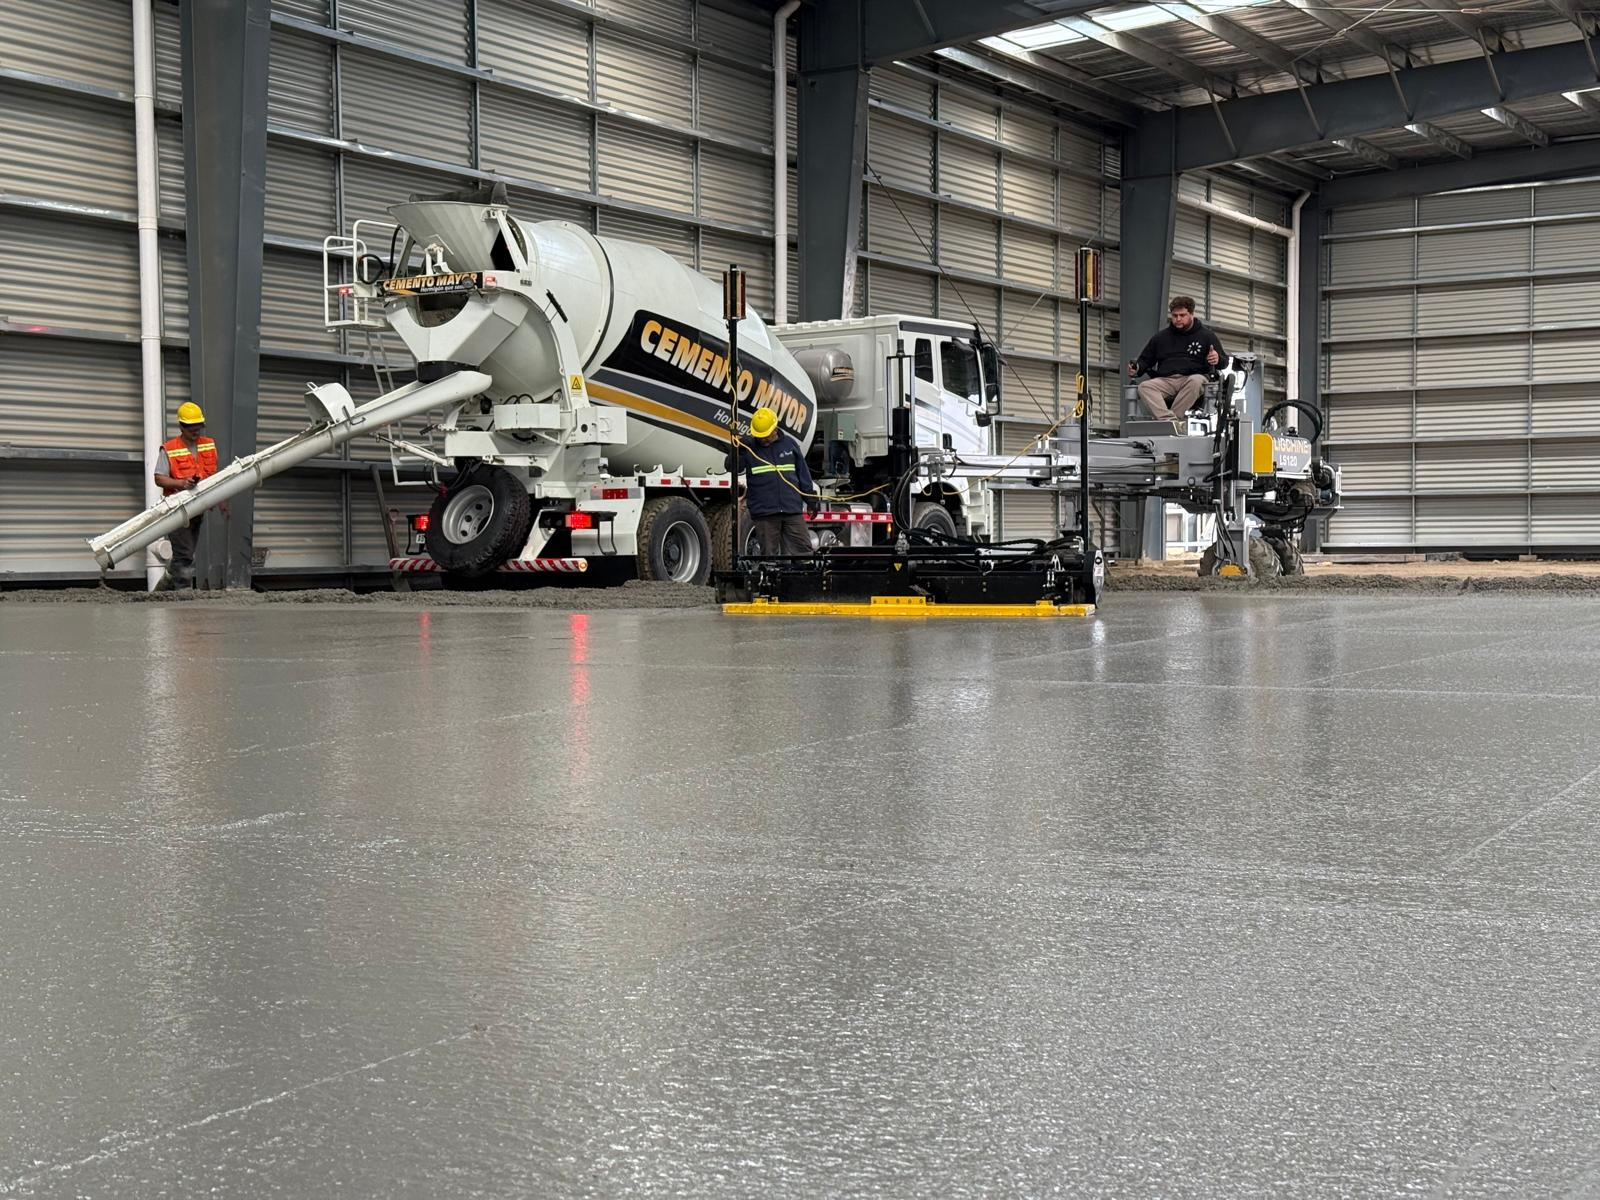
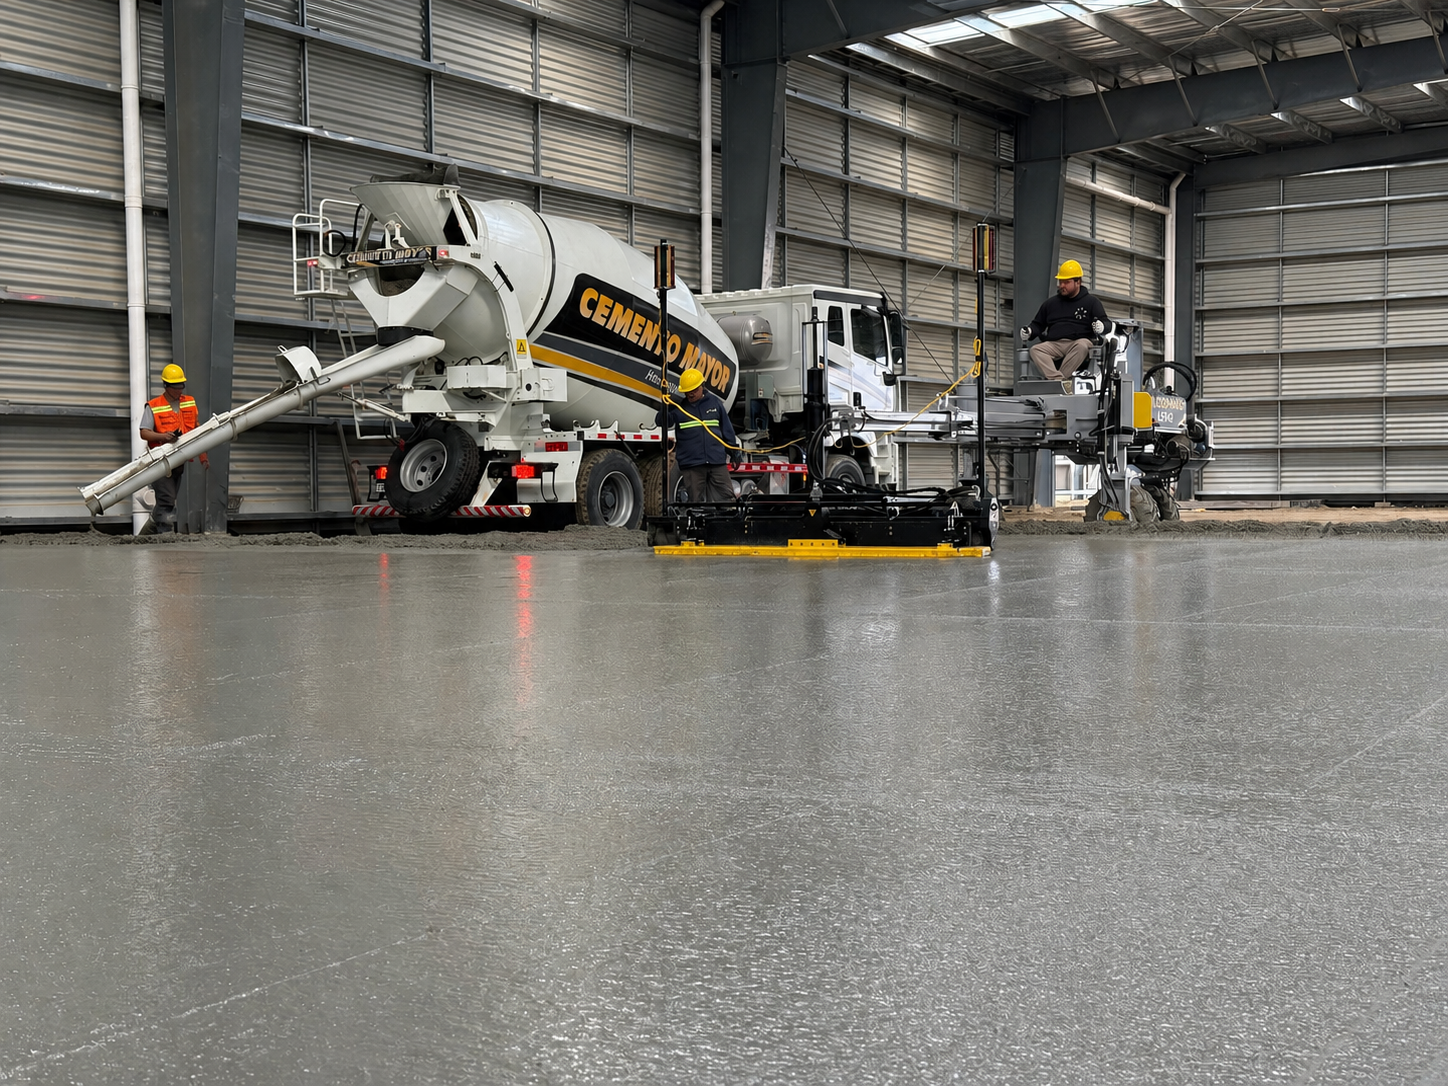
feature/Cambios en el carrusel y solicitud de Jacquelin.

diff --git a/src/pages/HomePage.jsx b/src/pages/HomePage.jsx
@@ -39,7 +39,7 @@ function HomePage() {
       <section className="section-block home-banner-section">
         <Container>
           <img
-            src="/images/gallery/Banner 2.png"
+            src="/images/gallery/Banner2.png"
             alt="Cemento Mayor"
             className="home-banner-image"
           />